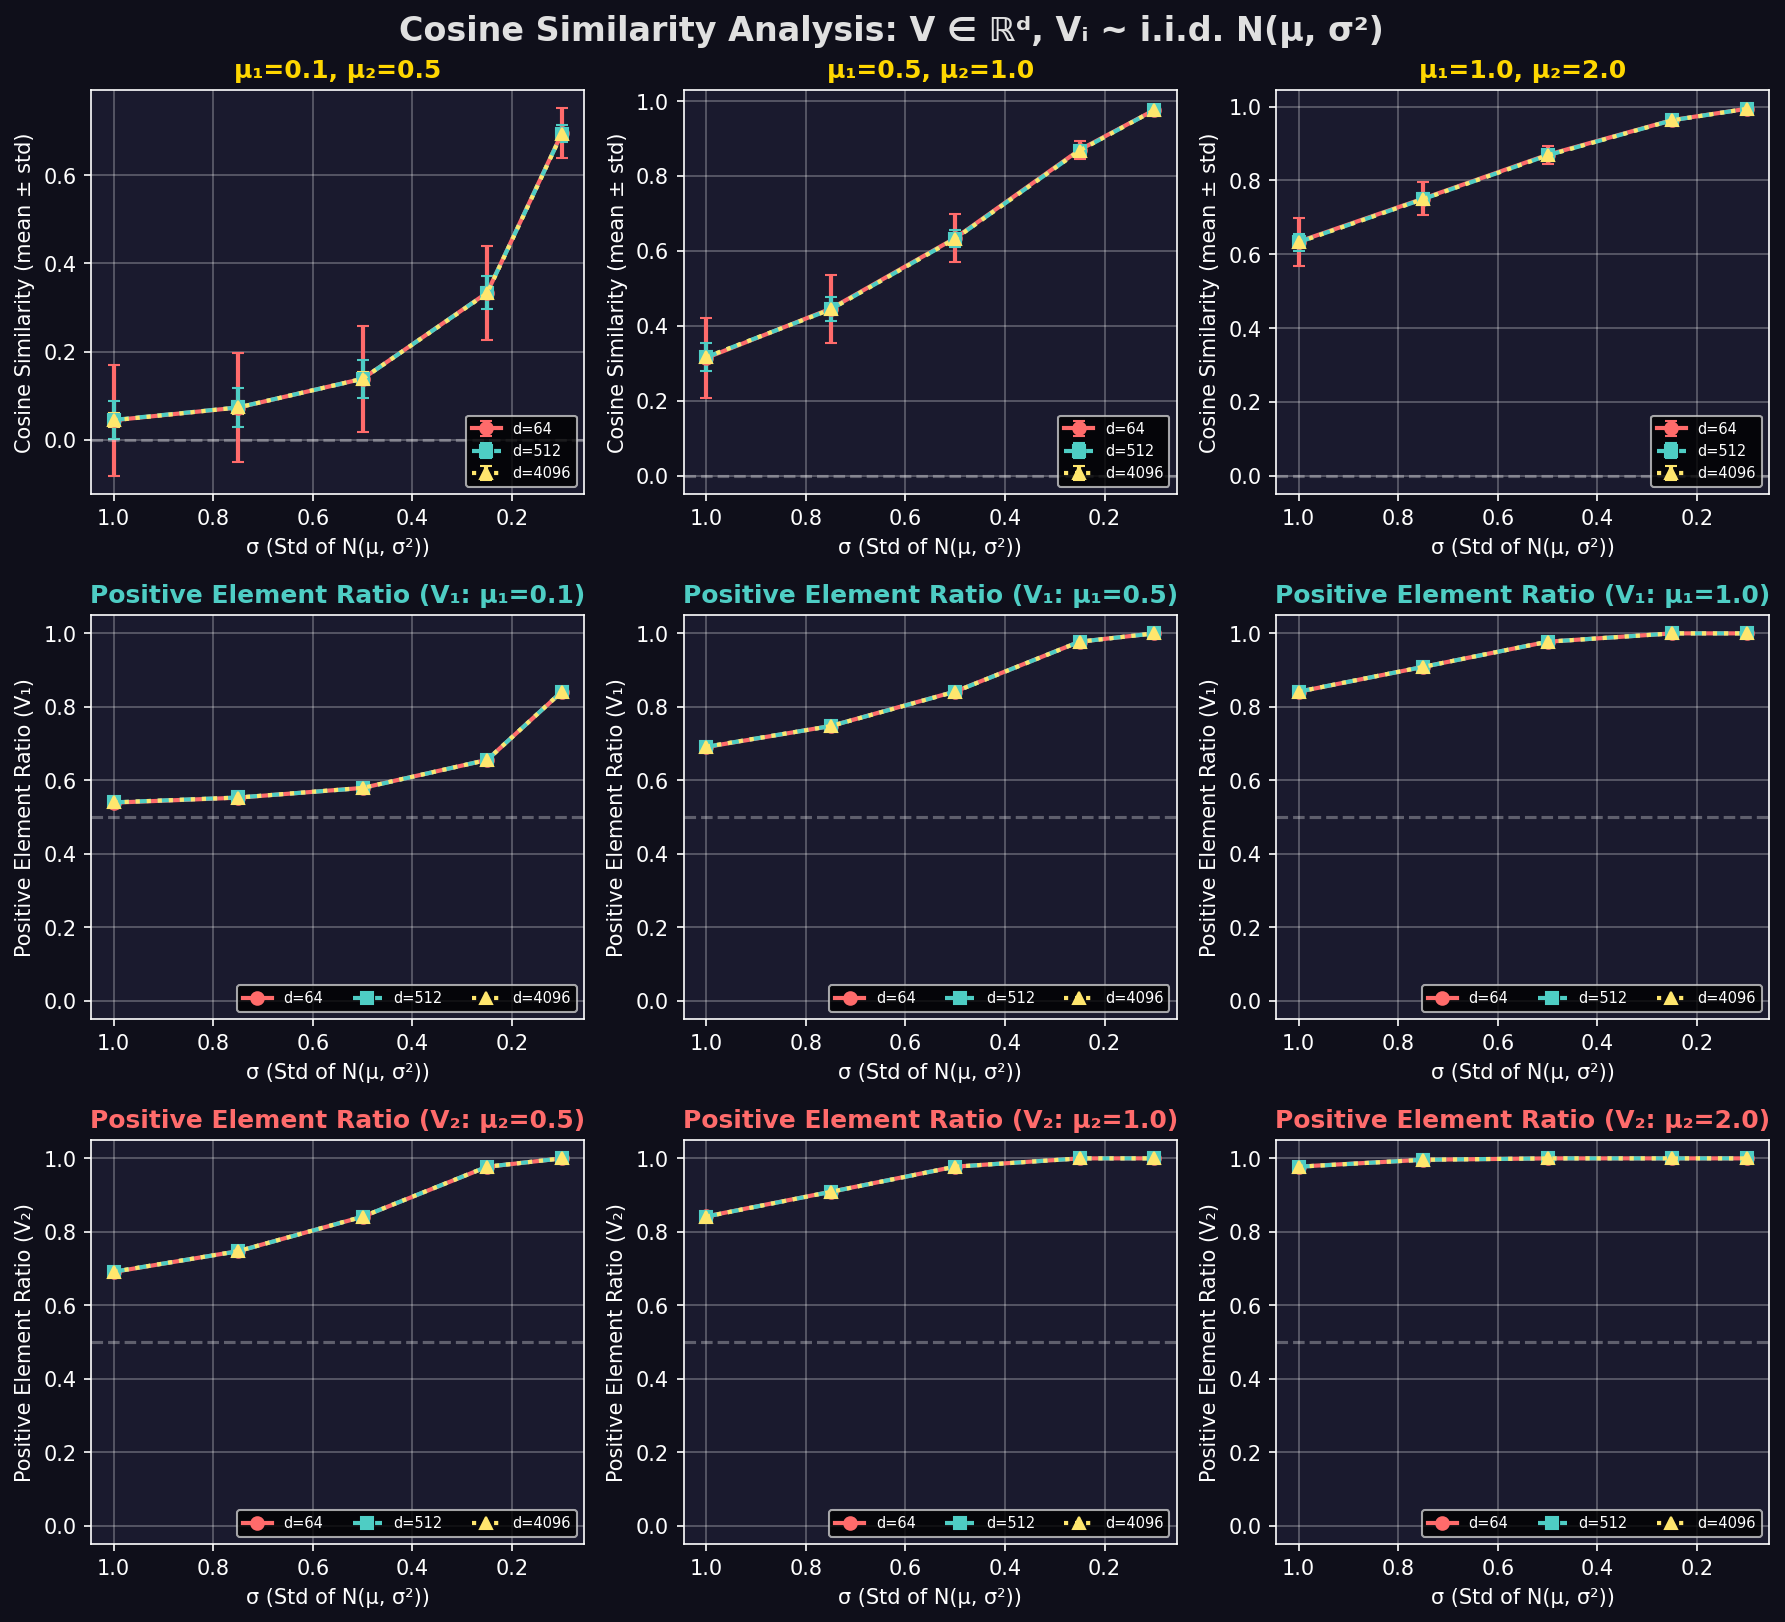
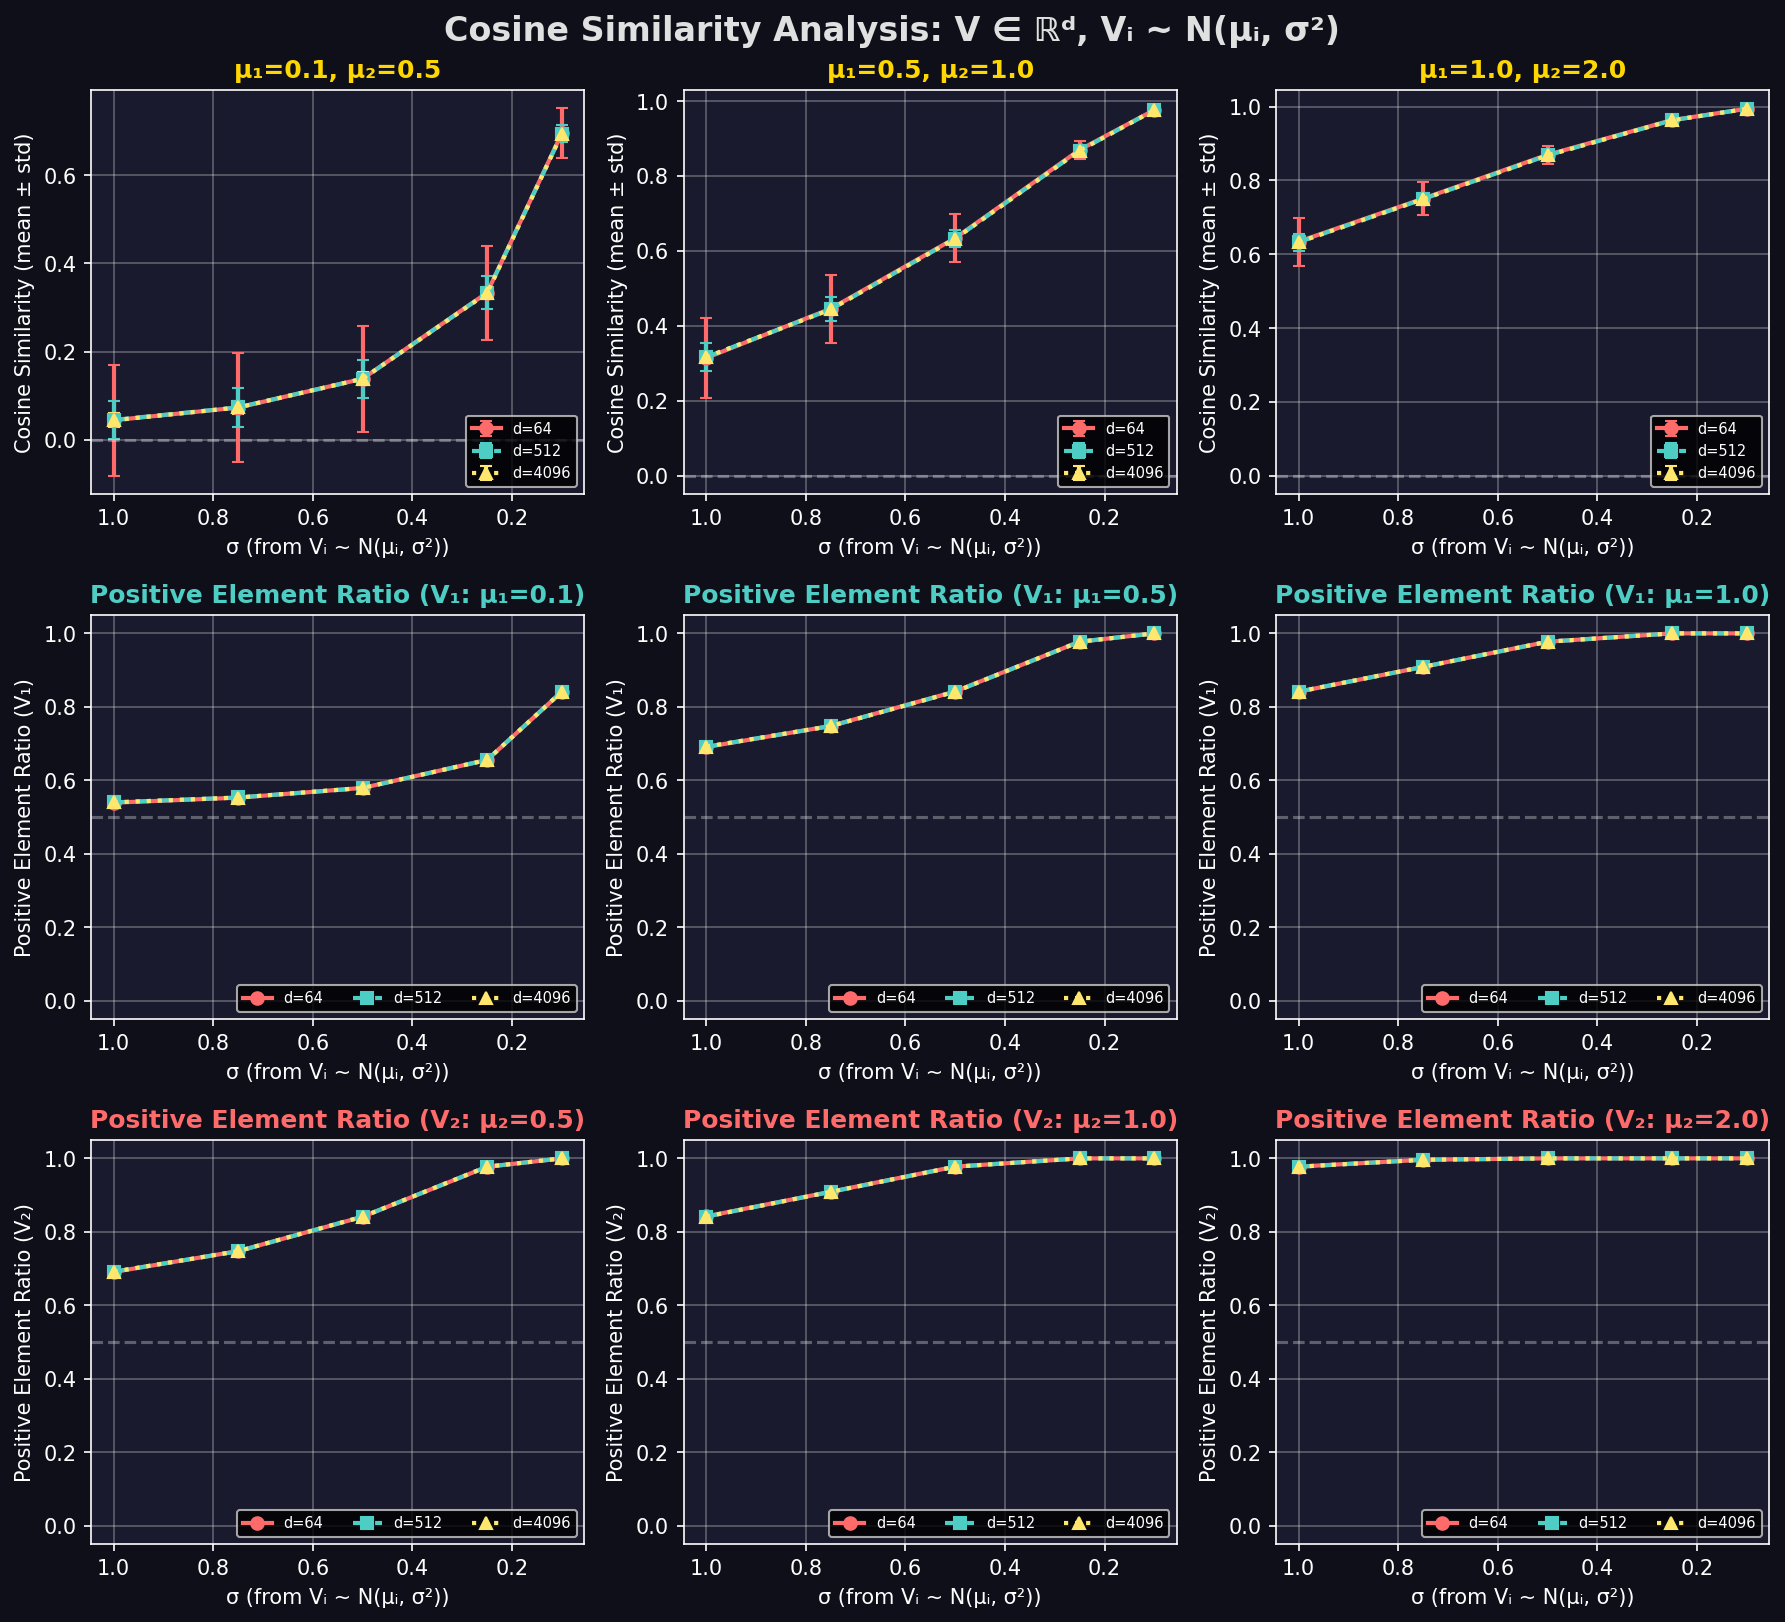
fix notation

diff --git a/viz_cossim.py b/viz_cossim.py
@@ -72,7 +72,7 @@ def main():
     n_pairs = len(mean_pairs)
     fig, axes = plt.subplots(3, n_pairs, figsize=(4 * n_pairs, 11))
     fig.suptitle(
-        "Cosine Similarity Analysis: V ∈ ℝᵈ, Vᵢ ~ i.i.d. N(μ, σ²)",
+        "Cosine Similarity Analysis: V ∈ ℝᵈ, Vᵢ ~ N(μᵢ, σ²)",
         fontsize=16,
         fontweight="bold",
         color="#E0E0E0",
@@ -98,7 +98,7 @@ def main():
                 markersize=6,
             )
 
-        ax.set_xlabel("σ (Std of N(μ, σ²))")
+        ax.set_xlabel("σ (from Vᵢ ~ N(μᵢ, σ²))")
         ax.set_ylabel("Cosine Similarity (mean ± std)")
         ax.set_title(f"μ₁={mean1}, μ₂={mean2}", fontweight="bold", color="#FFD700")
         ax.invert_xaxis()
@@ -126,7 +126,7 @@ def main():
                 markersize=6,
             )
 
-        ax.set_xlabel("σ (Std of N(μ, σ²))")
+        ax.set_xlabel("σ (from Vᵢ ~ N(μᵢ, σ²))")
         ax.set_ylabel("Positive Element Ratio (V₁)")
         ax.set_title(
             f"Positive Element Ratio (V₁: μ₁={mean1})",
@@ -159,7 +159,7 @@ def main():
                 markersize=6,
             )
 
-        ax.set_xlabel("σ (Std of N(μ, σ²))")
+        ax.set_xlabel("σ (from Vᵢ ~ N(μᵢ, σ²))")
         ax.set_ylabel("Positive Element Ratio (V₂)")
         ax.set_title(
             f"Positive Element Ratio (V₂: μ₂={mean2})",
